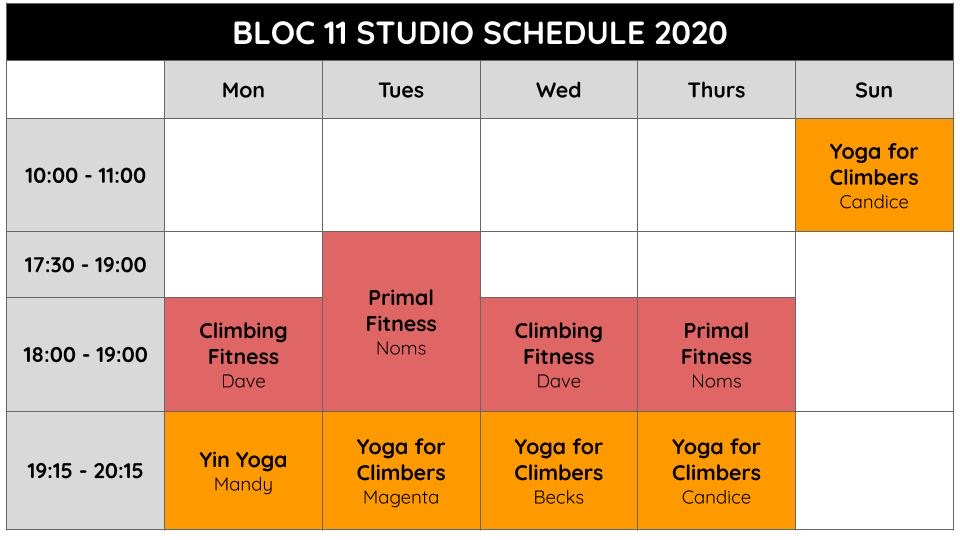
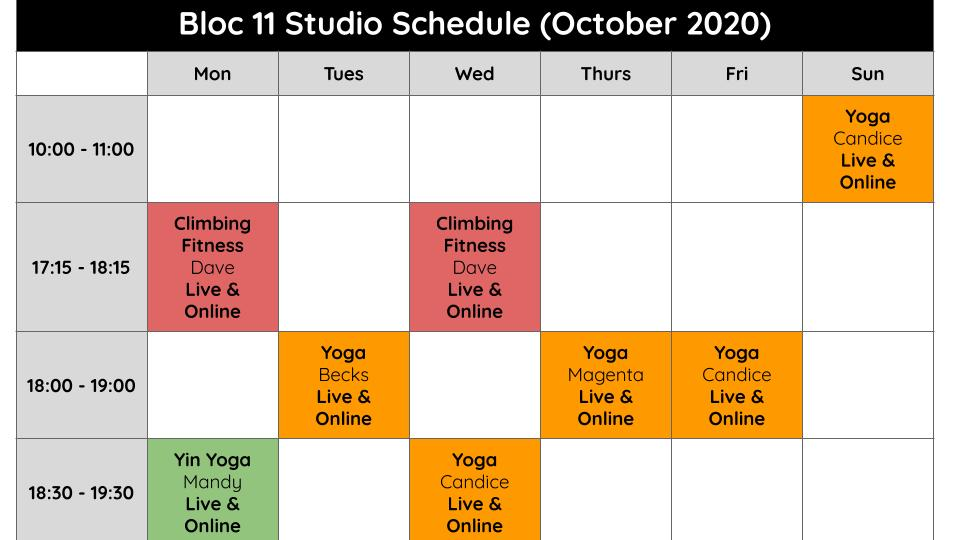
update yoga schedule

diff --git a/index.html b/index.html
@@ -254,8 +254,8 @@
                     <button class="close-btn js-close-btn">&times;</button>
                     <div class="modal-body">
                         <h2>Yoga timetable</h2>
-                        <a href="img/yoga/schedule.png">
-                            <img src="img/yoga/schedule.png" alt="Bloc11 yoga schedule" style="width: 100%" />
+                        <a href="img/yoga/schedule.jpg">
+                            <img src="img/yoga/schedule.jpg" alt="Bloc11 yoga schedule" style="width: 100%" />
                         </a>
                         <div><p>We're streaming yoga and fitness classes live! Its easy to join our Bloc 11 Virtual Studio by downloading the Zoom App and clicking on <a href="https://us04web.zoom.us/j/4679979552">this link</a>
                         <br/>
